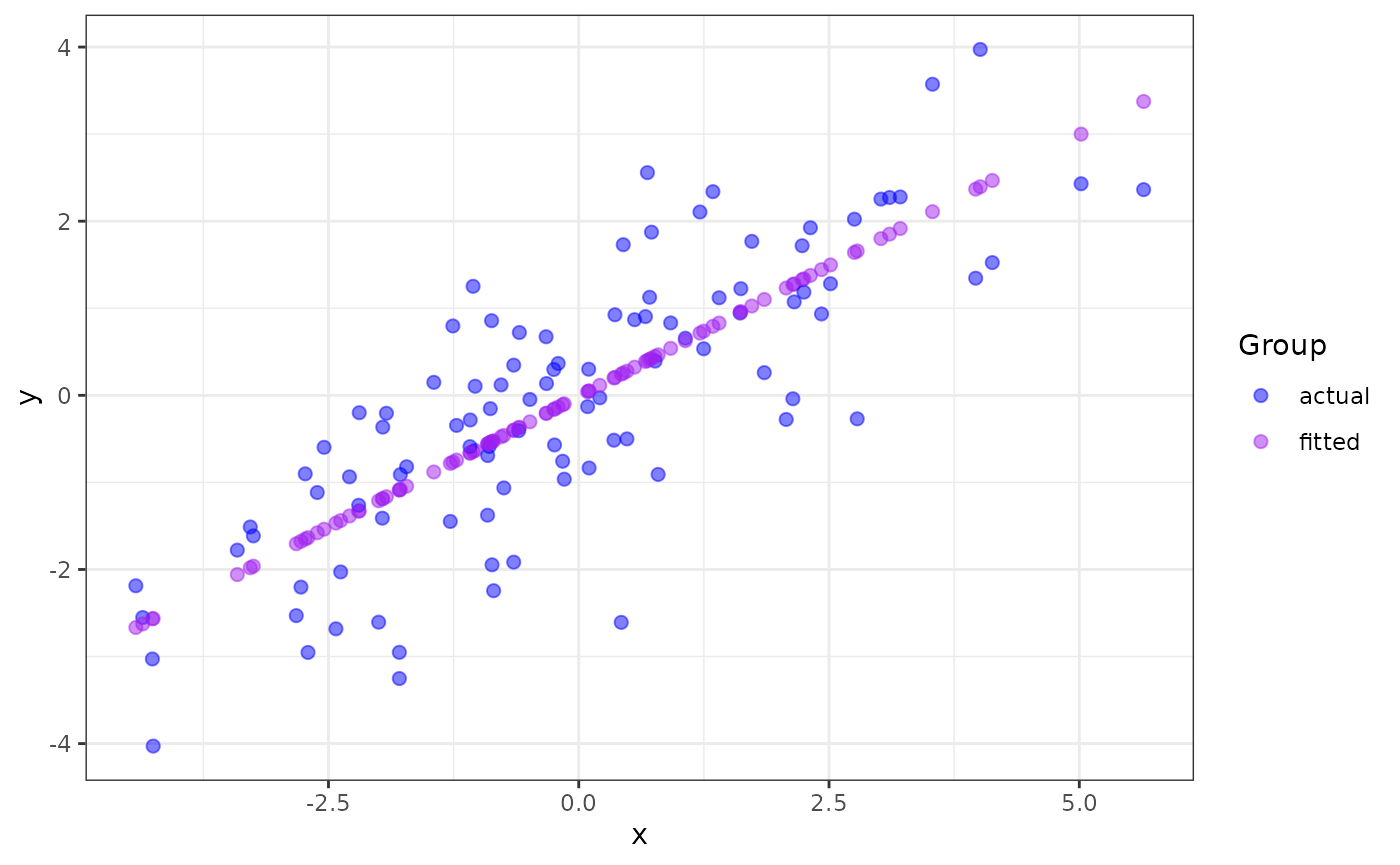
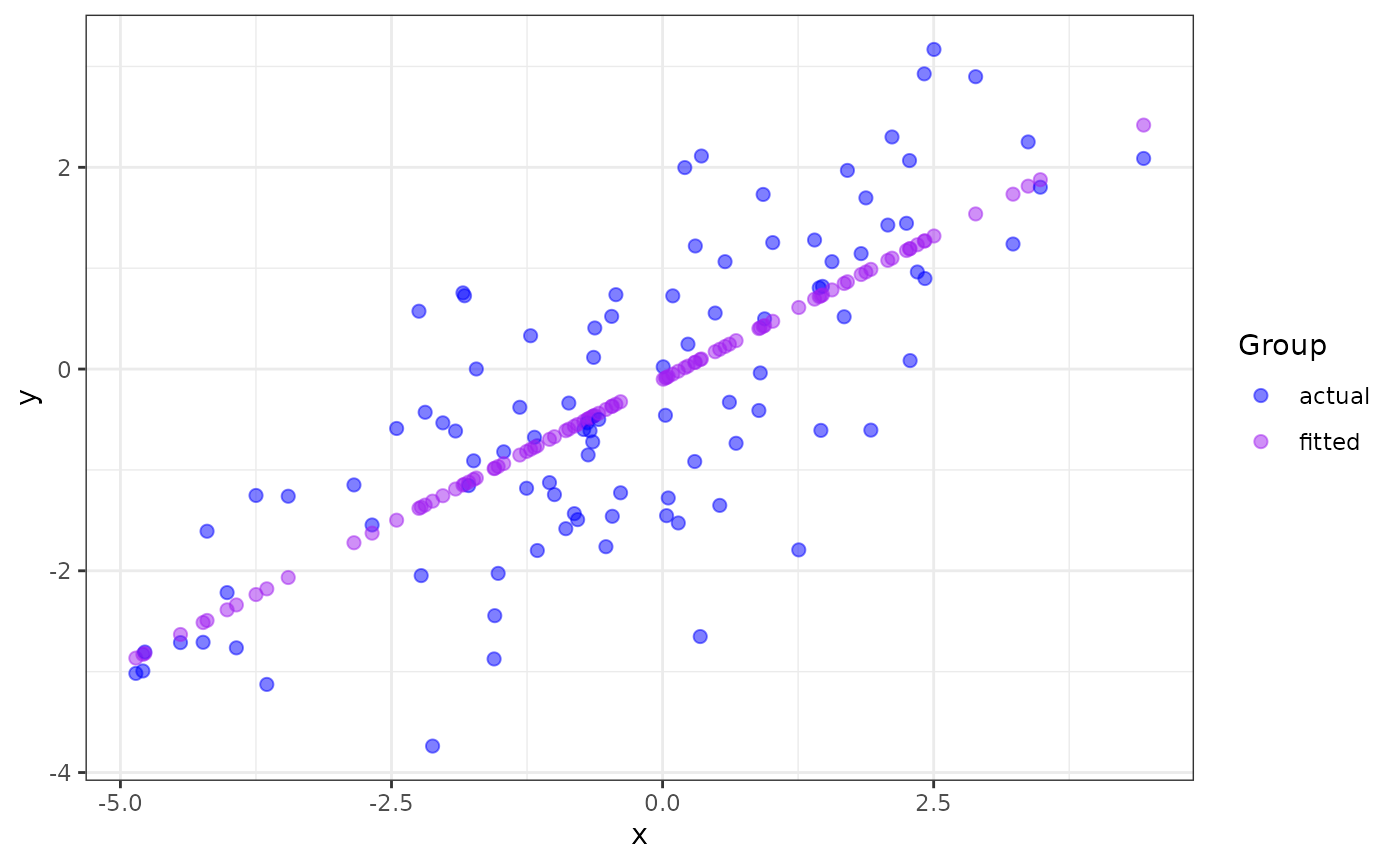
Built site for ggmatplot: 0.1.1@f7a1622

diff --git a/articles/ggmatplot.html b/articles/ggmatplot.html
@@ -103,7 +103,8 @@
 <span class="va">x</span> <span class="op">&lt;-</span> <span class="fu"><a href="https://rdrr.io/r/base/c.html" class="external-link">c</a></span><span class="op">(</span><span class="fu"><a href="https://rdrr.io/r/stats/Normal.html" class="external-link">rnorm</a></span><span class="op">(</span><span class="fl">100</span>, sd <span class="op">=</span> <span class="fl">2</span><span class="op">)</span><span class="op">)</span>
 
 <span class="fu"><a href="https://rdrr.io/r/utils/head.html" class="external-link">head</a></span><span class="op">(</span><span class="va">x</span><span class="op">)</span>
-<span class="co">#&gt; [1] -1.2830608  2.1521584 -0.7484013 -1.0349368 -3.2812548 -0.8707283</span>
+<span class="co">#&gt; [1] -2.189577521  0.005763302  0.296386121  2.077173078  1.674480738</span>
+<span class="co">#&gt; [6]  0.347243854</span>
 
 <span class="co"># matrix z</span>
 <span class="va">y</span> <span class="op">&lt;-</span> <span class="va">x</span> <span class="op">*</span> <span class="fl">0.5</span> <span class="op">+</span> <span class="fu"><a href="https://rdrr.io/r/stats/Normal.html" class="external-link">rnorm</a></span><span class="op">(</span><span class="fl">100</span>, sd <span class="op">=</span> <span class="fl">1</span><span class="op">)</span>
@@ -112,13 +113,13 @@
            fitted <span class="op">=</span> <span class="va">fit.y</span><span class="op">)</span>
 
 <span class="fu"><a href="https://rdrr.io/r/utils/head.html" class="external-link">head</a></span><span class="op">(</span><span class="va">z</span><span class="op">)</span>
-<span class="co">#&gt;       actual     fitted</span>
-<span class="co">#&gt; 1 -1.4484951 -0.7814963</span>
-<span class="co">#&gt; 2  1.0732333  1.2800287</span>
-<span class="co">#&gt; 3 -1.0635919 -0.4606394</span>
-<span class="co">#&gt; 4  0.1044440 -0.6325935</span>
-<span class="co">#&gt; 5 -1.5121295 -1.9806416</span>
-<span class="co">#&gt; 6  0.8571627 -0.5340496</span></code></pre></div>
+<span class="co">#&gt;        actual      fitted</span>
+<span class="co">#&gt; 1 -0.42842204 -1.34861508</span>
+<span class="co">#&gt; 2  0.02212333 -0.10039971</span>
+<span class="co">#&gt; 3 -0.91656244  0.06484109</span>
+<span class="co">#&gt; 4  1.42752541  1.07735159</span>
+<span class="co">#&gt; 5  0.51840103  0.84839089</span>
+<span class="co">#&gt; 6 -2.65185856  0.09375751</span></code></pre></div>
 <p><code>ggmatplot</code> plots vector <code>x</code> against each column of matrix <code>z</code> using the default <code>plot_type = "point"</code>. This will be represented on the resulting plot as two groups, identified using different shapes and colors.</p>
 <div class="sourceCode" id="cb2"><pre class="downlit sourceCode r">
 <code class="sourceCode R"><span class="kw"><a href="https://rdrr.io/r/base/library.html" class="external-link">library</a></span><span class="op">(</span><span class="va"><a href="https://github.com/xuan-liang/ggmatplot" class="external-link">ggmatplot</a></span><span class="op">)</span>
